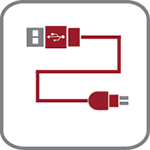
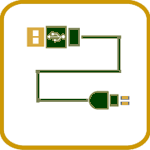
Se modifican imágenes, se corrigen colores y se modifican etiquetas

Changed region(s): [[0.16, 0.16, 0.88, 0.7467], [0.0, 0.0, 1.0, 1.0]]

diff --git a/opentaps/opentaps-common/webapp/css/opentaps-packed.css b/opentaps/opentaps-common/webapp/css/opentaps-packed.css
@@ -6190,7 +6190,7 @@ table.shortcutHelp td.shortcutKey {
 	font-weight: 700;
 	text-decoration: none;
 	color: #FFF;
-	background-color: #333;
+	background-color: #235B4E;
 	margin: 0;
 }
 
